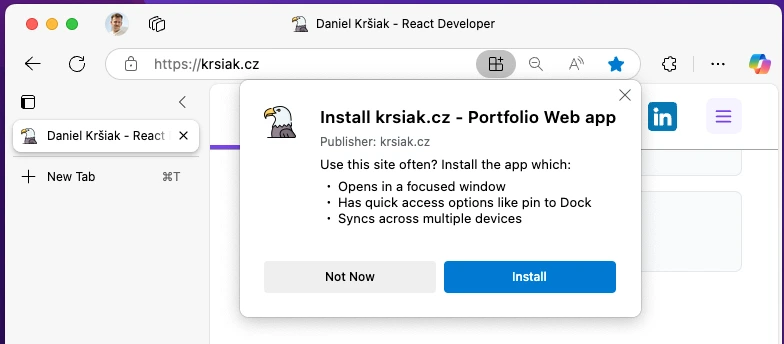
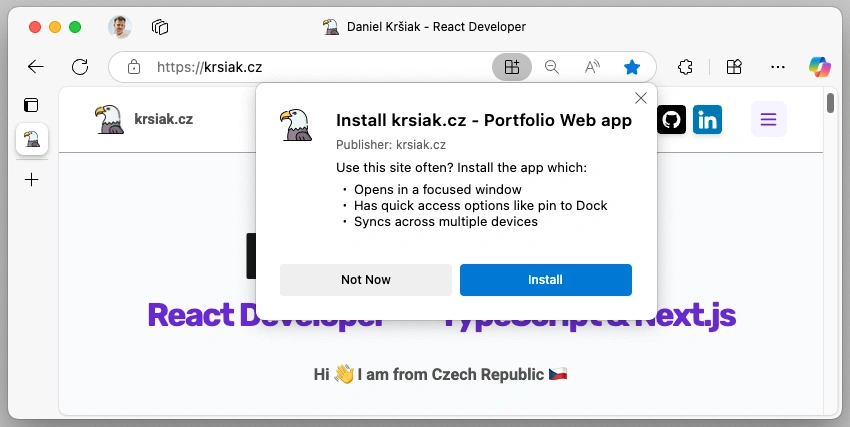
docs(readme): 📝 screenshots (#476)
* docs(readme): 📝 screenshots

* build: 🏗 fails on timeout - update config + workflow

diff --git a/playwright.config.ts b/playwright.config.ts
@@ -89,5 +89,6 @@ export default defineConfig({
     command: 'npm run dev',
     url: 'http://localhost:3000',
     reuseExistingServer: !process.env.CI,
+    timeout: 120 * 1000, // Increase to 120 seconds
   },
 })

diff --git a/README-progressive-web-app.md b/README-progressive-web-app.md
@@ -12,10 +12,10 @@ The website is available as **PWA - Progressive Web App** and can be installed o
 
 You can install PWA via the browser, example from Edge.
 
-![PWA Installation in Edge](/readme-images/progressive-web-app/pwa-installation-in-edge.webp)
+![PWA - Installation in Edge](/readme-images/progressive-web-app/pwa-installation-in-edge.webp)
 
 ## PWA on Mac Desktop
 
 Once installed, the PWA can be accessed from desktop, example from Mac.
 
-<img src="/readme-images/progressive-web-app/pwa-desktop.webp" alt="PWA - krsiak.cz" width="800"/>
+![PWA - krsiak.cz](/readme-images/progressive-web-app/pwa-desktop.webp)
